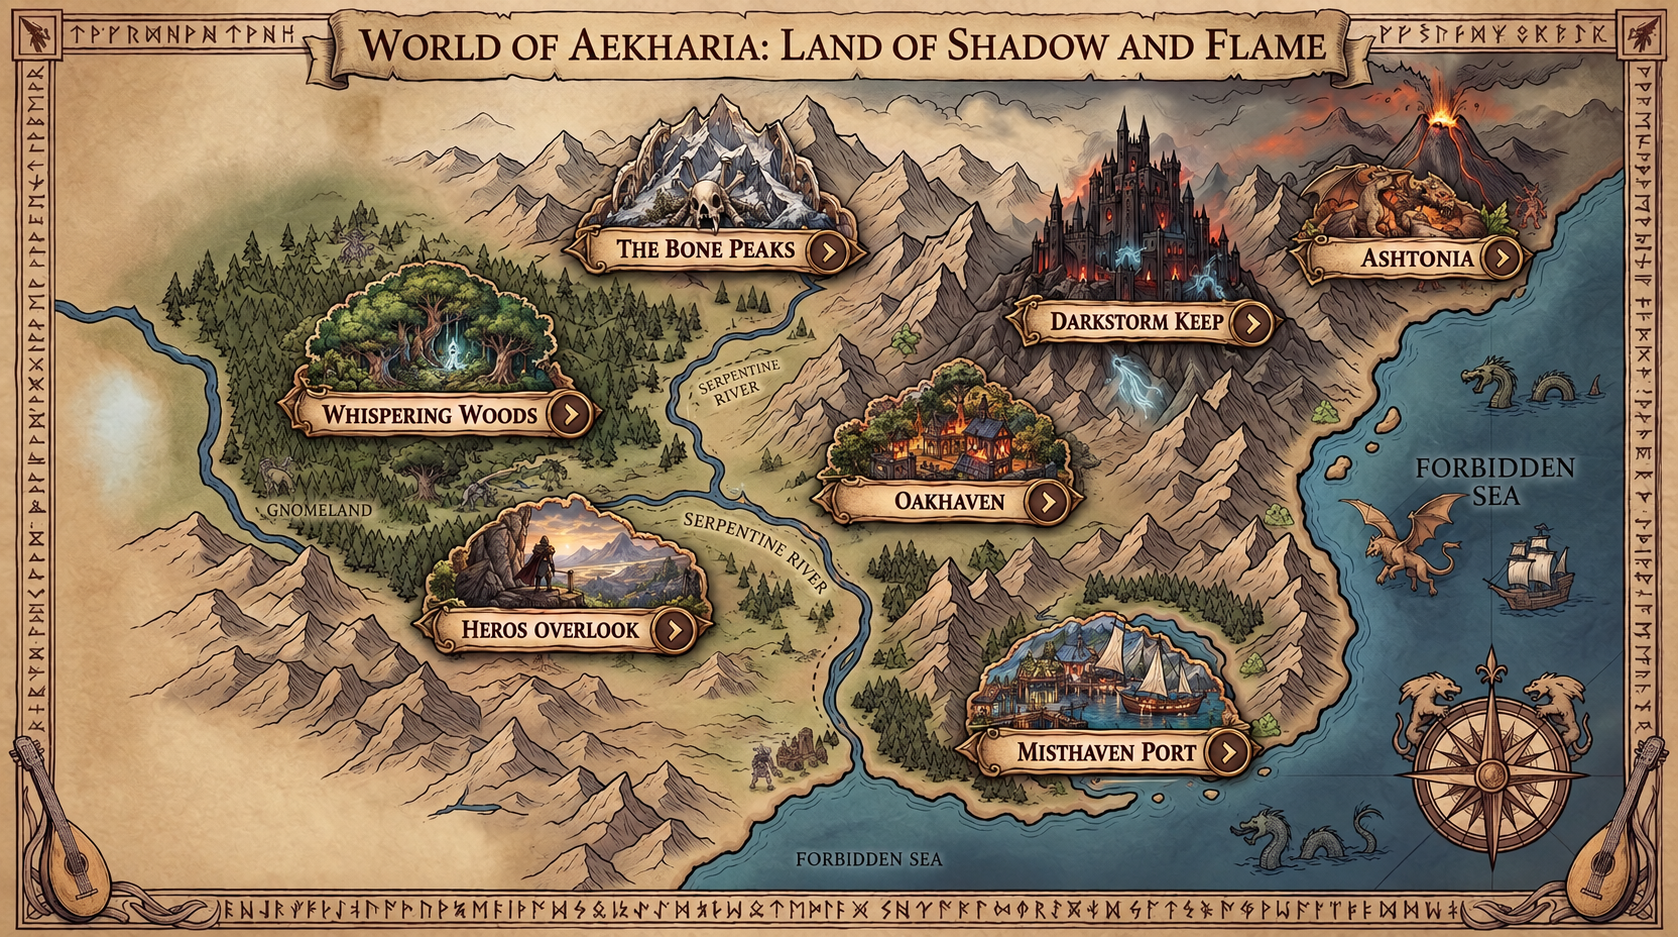
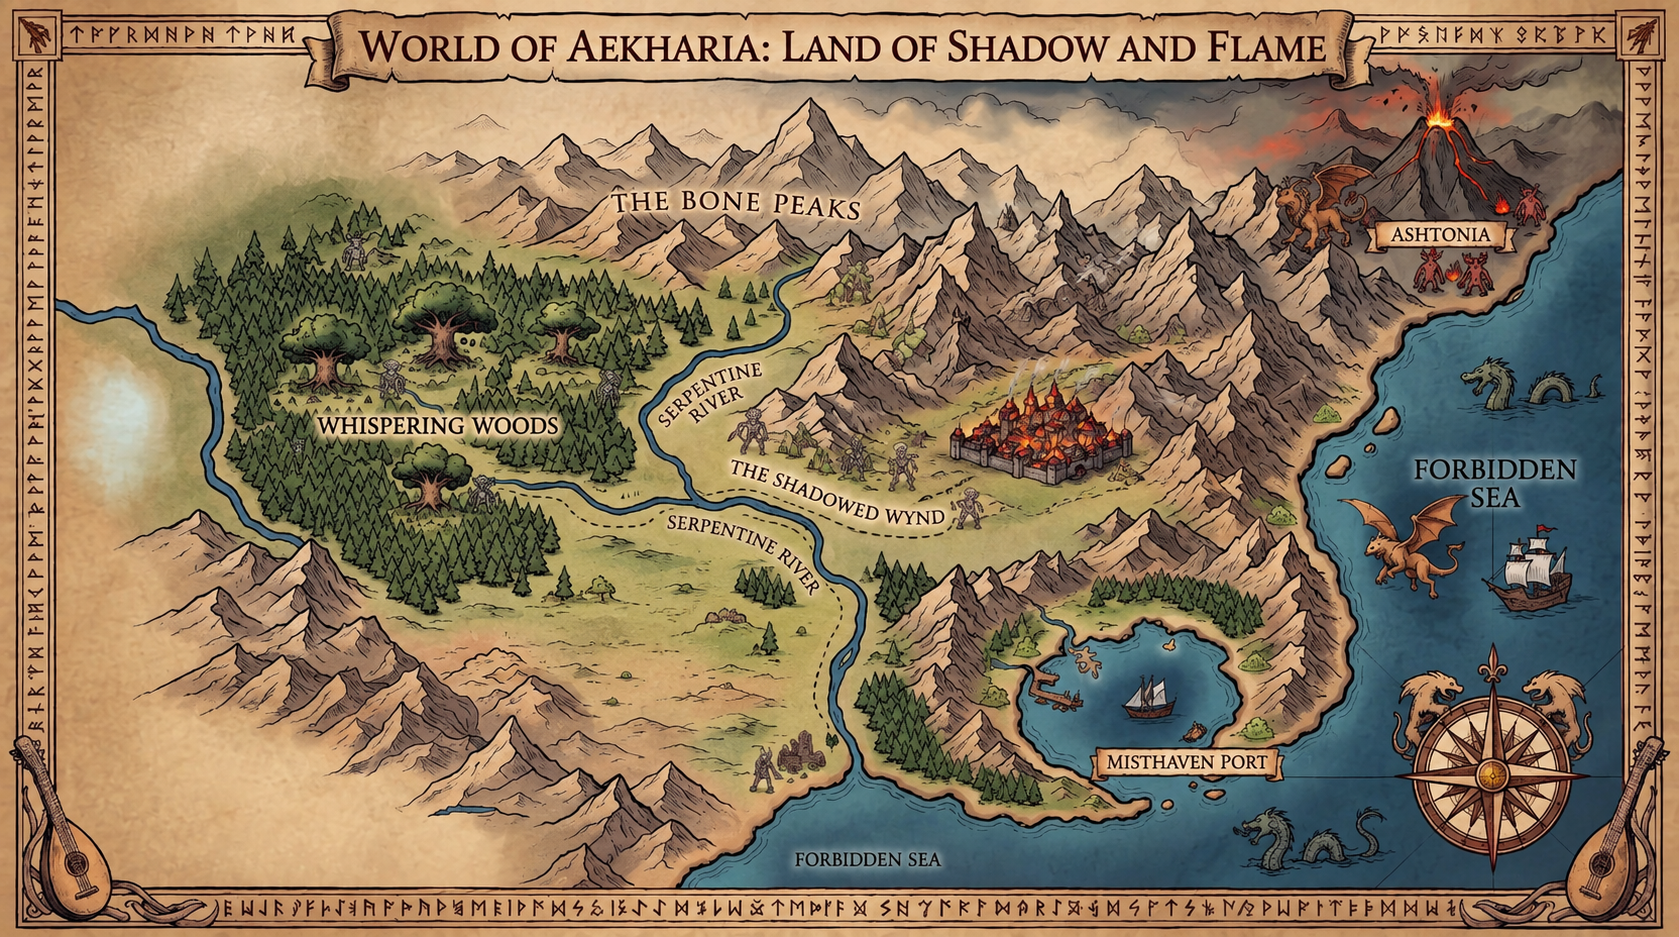
upgrade UI

diff --git a/src/pages/Map/Map.tsx b/src/pages/Map/Map.tsx
@@ -7,18 +7,25 @@ import misthavenPort from '../../assets/Map/Misthaven_Port.png'
 import ashtonia from '../../assets/Map/Ashtonia.png'
 import oakhaven from '../../assets/Map/Oakheaven.png'
 import darkstormKeep from '../../assets/Map/Darkstorm_Keep.png'
+import bonePeaksButton from '../../assets/Map/TheBonePeaksButton.png'
+import whisperingWoodsButton from '../../assets/Map/WhisperingWoodsButton.png'
+import herosOverlookButton from '../../assets/Map/HerosOverlookButton.png'
+import misthavenPortButton from '../../assets/Map/MisthavenPortButton.png'
+import ashtoniaButton from '../../assets/Map/AshtoniaButton.png'
+import oakhavenButton from '../../assets/Map/OakhavenButton.png'
+import darkstormKeepButton from '../../assets/Map/DarkstormKeepButton.png'
 import continueButton from '../../assets/Buttons/Continue.png'
 import './Map.css'
 
-type Area = { id: string; name: string; image: string; x: number; y: number; width: number; height: number }
+type Area = { id: string; name: string; image: string; buttonImage: string; x: number; y: number; width: number }
 const areas: Area[] = [
-  { id: 'bone-peaks', name: 'The Bone Peaks', image: bonePeaks, x: 43, y: 24, width: 22, height: 11 },
-  { id: 'whispering-woods', name: 'Whispering Woods', image: whisperingWoods, x: 29, y: 47, width: 20, height: 11 },
-  { id: 'heros-overlook', name: "Hero's Overlook", image: herosOverlook, x: 42, y: 74, width: 20, height: 10 },
-  { id: 'misthaven-port', name: 'Misthaven Port', image: misthavenPort, x: 68, y: 82, width: 22, height: 10 },
-  { id: 'ashtonia', name: 'Ashtonia', image: ashtonia, x: 86, y: 26, width: 16, height: 11 },
-  { id: 'oakhaven', name: 'Oakhaven', image: oakhaven, x: 60, y: 51, width: 18, height: 10 },
-  { id: 'darkstorm-keep', name: 'Darkstorm Keep', image: darkstormKeep, x: 68, y: 37, width: 21, height: 11 },
+  { id: 'bone-peaks', name: 'The Bone Peaks', image: bonePeaks, buttonImage: bonePeaksButton, x: 43, y: 20, width: 18 },
+  { id: 'whispering-woods', name: 'Whispering Woods', image: whisperingWoods, buttonImage: whisperingWoodsButton, x: 27, y: 42, width: 18 },
+  { id: 'heros-overlook', name: "Hero's Overlook", image: herosOverlook, buttonImage: herosOverlookButton, x: 37, y: 67, width: 19 },
+  { id: 'misthaven-port', name: 'Misthaven Port', image: misthavenPort, buttonImage: misthavenPortButton, x: 69, y: 75, width: 19},
+  { id: 'ashtonia', name: 'Ashtonia', image: ashtonia, buttonImage: ashtoniaButton, x: 86, y: 25, width: 17 },
+  { id: 'oakhaven', name: 'Oakhaven', image: oakhaven, buttonImage: oakhavenButton, x: 63, y: 45, width: 17 },
+  { id: 'darkstorm-keep', name: 'Darkstorm Keep', image: darkstormKeep, buttonImage: darkstormKeepButton, x: 72, y: 24, width: 15 },
 ]
 
 type MapProps = { onClose: () => void }
@@ -26,11 +33,10 @@ type MapProps = { onClose: () => void }
 function Map({ onClose }: MapProps) {
   const [activeArea, setActiveArea] = useState<Area | null>(null)
   const background = activeArea?.image ?? mapImage
-
   return (
     <main className="world-map" style={{ backgroundImage: `url("${background}")` }}>
       <button className="map-return" type="button" onClick={onClose}>Return to menu</button>
-      {!activeArea && <section className="map-locations" aria-label="Choose a location">{areas.map((area) => <button key={area.id} className="map-location" aria-label={area.name} style={{ left: `${area.x}%`, top: `${area.y}%`, width: `${area.width}%`, height: `${area.height}%` }} type="button" onClick={() => setActiveArea(area)} />)}</section>}
+      {!activeArea && <section className="map-locations" aria-label="Choose a location">{areas.map((area) => <button key={area.id} className="map-location" aria-label={area.name} style={{ left: `${area.x}%`, top: `${area.y}%`, width: `${area.width}%` }} type="button" onClick={() => setActiveArea(area)}><img src={area.buttonImage} alt="" /></button>)}</section>}
       {activeArea && <section className="area-card"><span className="map-caption">LOCATION SELECTED</span><h2>{activeArea.name}</h2><p>Continue into this region and begin your next chapter.</p><button className="continue-button" type="button"><img src={continueButton} alt="Continue" /></button><button className="back-map" type="button" onClick={() => setActiveArea(null)}>Back to map</button></section>}
     </main>
   )

diff --git a/src/pages/Map/Map.css b/src/pages/Map/Map.css
@@ -1,7 +1,7 @@
 .world-map { position:relative; min-height:100svh; overflow:hidden; isolation:isolate; background-position:center; background-repeat:no-repeat; background-size:100% 100%; color:#f8e9c2; font-family:Georgia,'Times New Roman',serif; transition:background-image .35s ease; }
 .world-map::before { position:absolute; inset:0; z-index:-1; content:''; background:linear-gradient(180deg,rgba(8,6,5,.8),transparent 25%,transparent 72%,rgba(7,5,4,.68)); pointer-events:none; }
 .map-return { position:absolute; z-index:3; top:22px; right:28px; padding:8px 12px; border:1px solid rgba(231,190,107,.7); background:rgba(29,18,10,.78); color:#f7dfac; font:12px Georgia,serif; cursor:pointer; }.map-return:hover { background:#74431d; }
-.map-caption { display:block; color:#ddb36a; font-size:10px; letter-spacing:.26em; text-transform:uppercase; }
-.map-locations { position:absolute; inset:0; }.map-location { position:absolute; transform:translate(-50%,-50%); padding:0; border:1px solid transparent; border-radius:45%; background:transparent; cursor:pointer; transition:background .2s,border-color .2s,box-shadow .2s; }.map-location:hover,.map-location:focus-visible { z-index:2; border-color:rgba(255,220,137,.85); background:rgba(211,137,48,.18); box-shadow:0 0 24px rgba(249,163,63,.55); outline:none; }
-.area-card { position:absolute; right:clamp(18px,8vw,150px); bottom:clamp(32px,12vh,130px); width:min(350px,calc(100% - 36px)); padding:24px; border:1px solid #c9974e; background:rgba(20,13,8,.9); box-shadow:0 10px 40px #000; }.area-card h2 { margin:9px 0 5px; font-size:25px; }.area-card p { margin:0 0 19px; color:#deca9e; font-size:16px; line-height:1.35; }.continue-button { display:block; padding:0; border:0; background:none; cursor:pointer; }.continue-button img { display:block; width:min(190px,100%); height:auto; }.back-map { display:block; margin-top:15px; padding:0; border:0; background:none; color:#d8b271; font:13px Georgia,serif; cursor:pointer; }.back-map:hover { color:#fff1cd; }
-@media (max-width:700px) { .map-return { right:12px; top:13px; font-size:10px; }.map-location { width:18%; height:13%; }.area-card { right:18px; bottom:24px; } }
+.map-caption { display:block; color:#71411f; font-size:10px; letter-spacing:.26em; text-transform:uppercase; }
+.map-locations { position:absolute; inset:0; }.map-location { position:absolute; display:block; transform:translate(-50%,-50%); padding:0; border:0; background:transparent; cursor:pointer; transition:filter .2s,transform .2s; }.map-location img { display:block; width:100%; height:auto; }.map-location:hover,.map-location:focus-visible { z-index:2; transform:translate(-50%,-50%) scale(1.05); filter:drop-shadow(0 0 12px rgba(255,190,72,.9)); outline:none; }
+.area-card { position:absolute; right:clamp(18px,8vw,150px); bottom:clamp(32px,12vh,130px); width:min(520px,calc(100% - 36px)); aspect-ratio:2 / 1; padding:8% 11%; border:0; background:url('../../assets/Map/Pergament.png') center/100% 100% no-repeat; box-shadow:0 10px 40px #000; color:#4a2614; }.area-card h2 { margin:9px 0 5px; color:#4a2614; font-size:25px; }.area-card p { margin:0 0 19px; color:#704529; font-size:16px; line-height:1.35; }.continue-button { display:block; padding:0; border:0; background:none; cursor:pointer; }.continue-button img { display:block; width:min(190px,100%); height:auto; }.back-map { display:block; margin-top:15px; padding:0; border:0; background:none; color:#704529; font:13px Georgia,serif; cursor:pointer; }.back-map:hover { color:#2f170b; }
+@media (max-width:700px) { .map-return { right:12px; top:13px; font-size:10px; }.map-location { width:25%; }.area-card { right:18px; bottom:24px; } }
